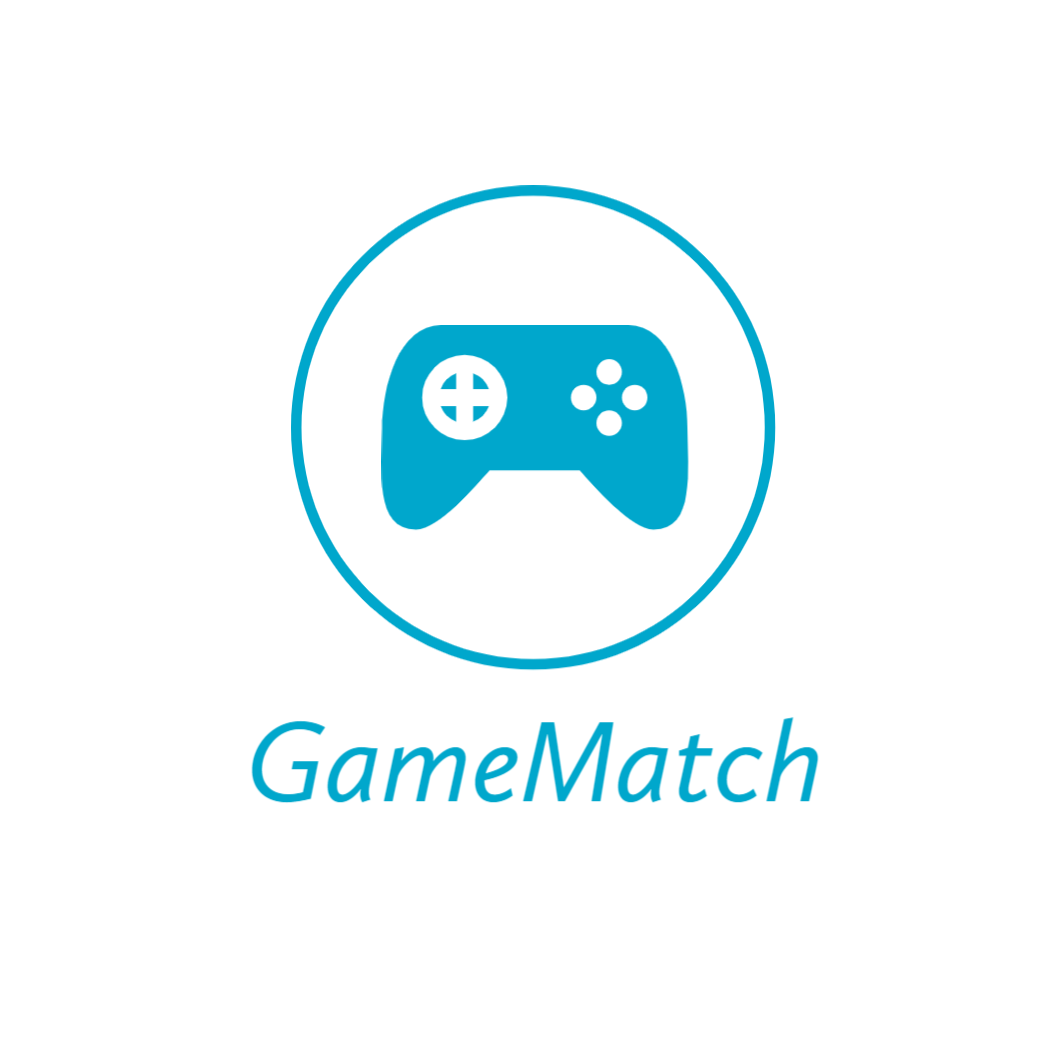
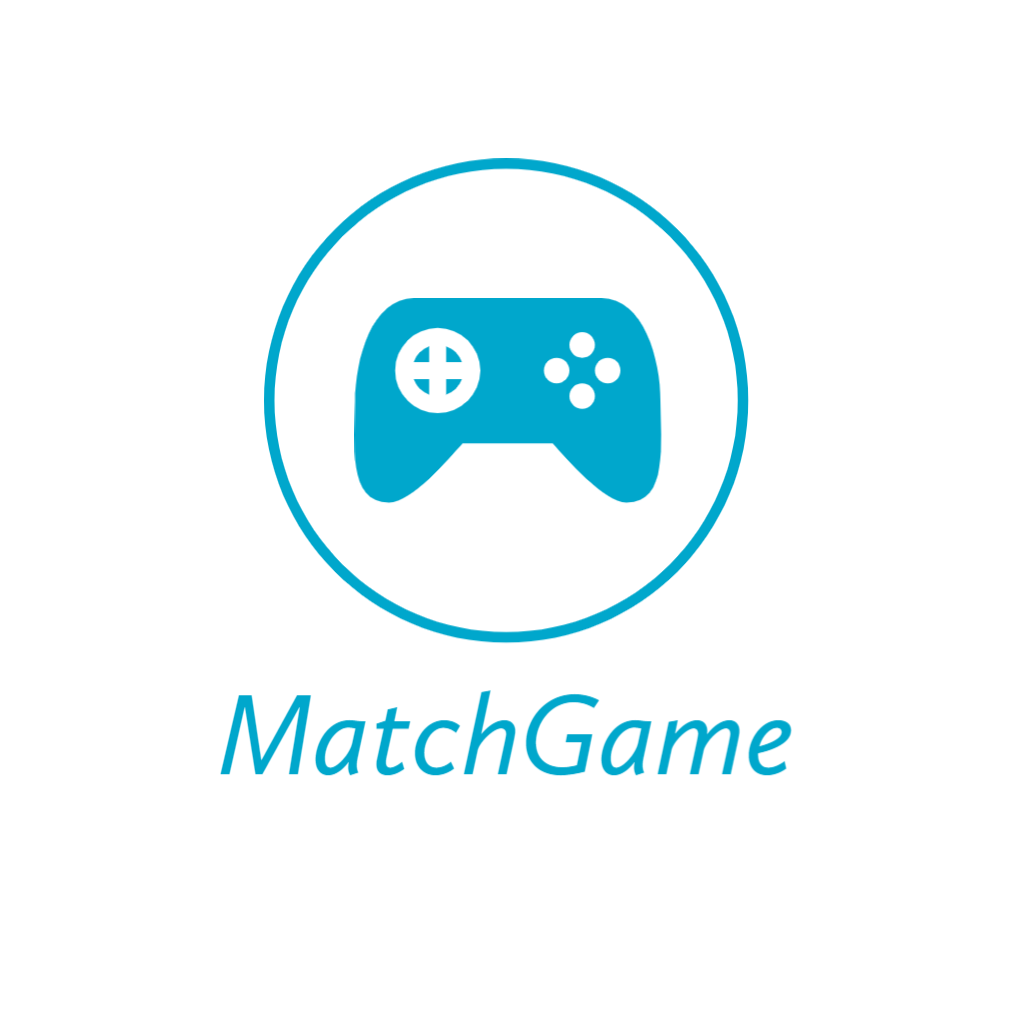
change image

Changed region(s): [[0.2443, 0.1527, 0.7635, 0.6414], [0.2138, 0.6719, 0.7941, 0.7941]]

diff --git a/src/views/Landing.vue b/src/views/Landing.vue
@@ -1,7 +1,7 @@
 <template>
   <v-container fill-height pa-16>
     <v-row align="center" justify="center" grow>
-      <h1 style="text-align: -webkit-center">Welcome to GameMatch</h1>
+      <h1 style="text-align: -webkit-center">Welcome to MatchGame</h1>
     </v-row>
     <v-row align="center" justify="center" grow>
       <v-img
